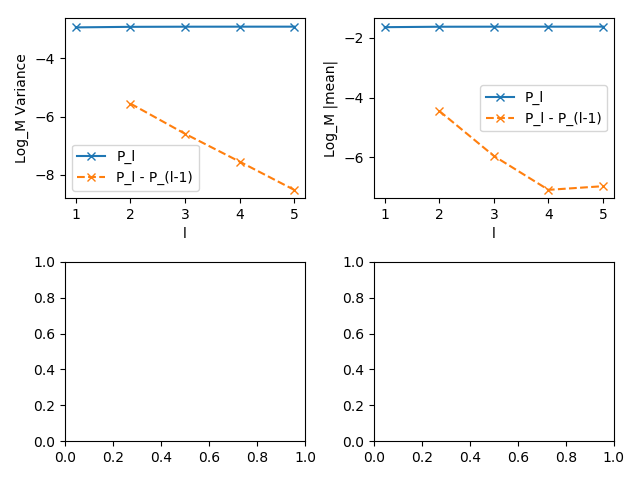
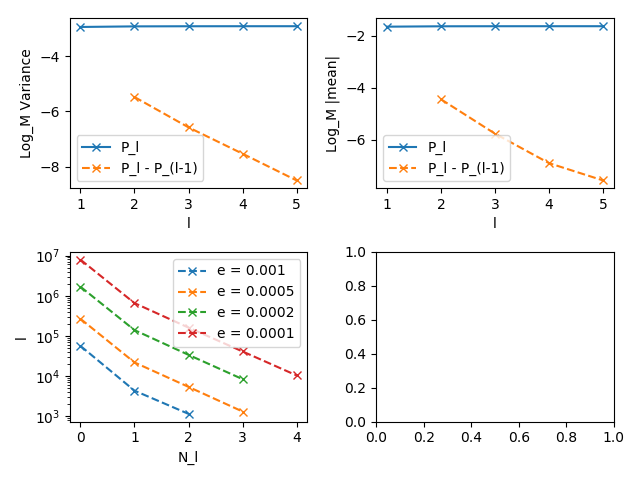
addition of graph for N-layers versus epsilon

diff --git a/graph.py b/graph.py
@@ -5,60 +5,90 @@ import numpy as np
 import matplotlib.pyplot as plt
 import os
 
-spot = 1
-strike = 1
-risk_free = 0.05
-expiry = 1
-vol = 0.2
-interval = 0.1
 
-s = stock.ConstantVolatilityStock(spot, vol)
-o = option.EuropeanStockOption(s, risk_free, expiry, True, strike)
-solver = option.SimpleLayeredMCOptionSolver(interval,base_steps=10000,max_L=5)
+def create_graph(asset):
 
+    def plot_vars_and_means(asset, ax1, ax2):
+        '''
+        Produces plots for upper left and upper right.
+        '''
 
-def generate_log_variance(solver):
-    trackers = solver.solve_option_price(o)
-    for (n, t) in trackers:
-        print(n, t.mean, t.variance, t.count)
+        solver = option.SimpleLayeredMCOptionSolver(
+            max_interval_length=.01,
+            base_steps=10000,
+            min_L=5
+            )
 
-    # E[P(l) - P(l-1)]
-    pl_means_deltas = np.array([t.mean for (n,t) in trackers])
+        (means, variances, counts) = solver.solve_option_price(asset, True)
+        for l, (m, v, c) in enumerate(zip(means, variances, counts)):
+            print(l, m, v, c)
 
-    # Var[P(l) - P(l-1)]
-    pl_vars_deltas = np.array([t.variance for (n,t) in trackers])
+        # means and variances actually contain V(p(l) - p(l-1))
+        layer_means = np.array(means).cumsum()
+        layer_vars = np.array(variances).cumsum()
 
-    # E[P(l)] = P_0 + sum(E[P(l) -P(l-1)]) for l = 1,2,...
-    pl_means = pl_means_deltas.cumsum()
+        # take log of base 4, for plotting
+        variances = [math.log(v,4) for v in variances]
+        layer_vars = [math.log(v,4) for v in layer_vars]
+        means = [math.log(abs(m),4) for m in means]
+        layer_means = [math.log(abs(m),4) for m in layer_means]
 
-    # Var[P(l)] = P_0 + sum(var[P(l) -P(l-1)]) for l = 1,2,...
-    pl_vars = pl_vars_deltas.cumsum()
+        ax1.plot([1,2,3,4,5], layer_vars, marker ='x', label="P_l")
+        ax1.plot([2,3,4,5], variances[1:], ls="--",marker='x', label="P_l - P_(l-1)")
+        ax1.set_xlabel("l")
+        ax1.set_ylabel("Log_M Variance")
+        ax1.legend()
 
-    # take log of base 4, for plotting
-    pl_vars_deltas = [math.log(v,4) for v in pl_vars_deltas]
-    pl_vars = [math.log(v,4) for v in pl_vars]
-    pl_means_deltas = [math.log(abs(m),4) for m in pl_means_deltas]
-    pl_means = [math.log(abs(m),4) for m in pl_means]
+        ax2.plot([1,2,3,4,5], layer_means, marker ='x', label="P_l")
+        ax2.plot([2,3,4,5], means[1:], ls="--",marker='x', label="P_l - P_(l-1)")
+        ax2.set_xlabel("l")
+        ax2.set_ylabel("Log_M |mean|")
+        ax2.legend()
+
+    def plot_Npaths_for_epsilon(asset, ax3):
+
+        epsilon_list = [.001, .0005, .0002, .0001]
+
+        for i, e in enumerate(epsilon_list):
+            print("NEW TRIAL")
+            solver = option.SimpleLayeredMCOptionSolver(
+                max_interval_length=e,
+                base_steps=1000,
+                min_L=3
+                )
+
+            (means, variances, counts) = solver.solve_option_price(asset, True)
+
+            for l, (m, v, c) in enumerate(zip(means, variances, counts)):
+                print(l, m, v, c)
+
+            layers = [i for i in range(len(counts))]
+            ax3.plot(layers, counts, ls="--",marker='x',label="e = %s" %e)
+        ax3.set_yscale('log')
+        ax3.set_xlabel("N_l")
+        ax3.set_ylabel("l")
+        ax3.legend(loc='upper right')
+
 
     fig, ((ax1, ax2), (ax3,ax4)) = plt.subplots(2,2)
-    ax1.plot([1,2,3,4,5], pl_vars, marker ='x', label="P_l")
-    ax1.plot([2,3,4,5], pl_vars_deltas[1:], ls="--",marker='x', label="P_l - P_(l-1)")
-    ax1.set_xlabel("l")
-    ax1.set_ylabel("Log_M Variance")
-    ax1.legend()
-
-    ax2.plot([1,2,3,4,5], pl_means, marker ='x', label="P_l")
-    ax2.plot([2,3,4,5], pl_means_deltas[1:], ls="--",marker='x', label="P_l - P_(l-1)")
-    ax2.set_xlabel("l")
-    ax2.set_ylabel("Log_M |mean|")
-    ax2.legend()
-
+    plot_vars_and_means(asset, ax1, ax2)
+    plot_Npaths_for_epsilon(asset, ax3)
     plt.tight_layout()
     plt.savefig(os.getcwd()+"/figs/graph_1.png")
     plt.show()
 
 def main():
-    generate_log_variance(solver)
+    spot = 1
+    strike = 1
+    risk_free = 0.05
+    expiry = 1
+    vol = 0.2
+
+
+
+    s = stock.ConstantVolatilityStock(spot, vol)
+    o = option.EuropeanStockOption(s, risk_free, expiry, True, strike)
+    create_graph(o)
 
 if __name__ == '__main__':
     main()

diff --git a/mlmc/option.py b/mlmc/option.py
@@ -206,7 +206,6 @@ class LayeredMCOptionSolver(OptionSolver):
         return
 
     def run_bottom_level(self, option, steps):
-        #print("RUNNING BOTTOM LEVEL")
         result = path.create_simple_path(option.assets,
                                          option.risk_free,
                                          option.expiry,
@@ -215,7 +214,6 @@ class LayeredMCOptionSolver(OptionSolver):
         return option.determine_payoff(*result),
 
     def run_upper_level(self, option, steps):
-        #print("RUNNING UPPER LEVEL")
         result = path.create_layer_path(option.assets,
                                         option.risk_free,
                                         option.expiry,
@@ -239,12 +237,20 @@ class LayeredMCOptionSolver(OptionSolver):
             for s, t in zip(fn(option, steps), trackers):
                 t.add_sample(s)
 
-    def solve_option_price(self, option):
+    def solve_option_price(self, option, return_stats=False):
         expiry = option.expiry
         risk_free = option.risk_free
         discount = math.exp(-risk_free * expiry)
+        trackers = self.run_levels(option, discount)
 
-        return self.run_levels(option, discount)
+        if return_stats:
+            means = [t.mean for t in trackers]
+            variances = [t.variance for t in trackers]
+            counts = [t.count for t in trackers]
+            return (means, variances, counts)
+
+        else:
+            return sum([t.mean for t in trackers])
 
 
 class SimpleLayeredMCOptionSolver(LayeredMCOptionSolver):
@@ -254,12 +260,12 @@ class SimpleLayeredMCOptionSolver(LayeredMCOptionSolver):
                  level_scaling_factor=4,
                  base_steps=1000,
                  rng_creator=None,
-                 max_L=3):
+                 min_L=3):
         self.max_interval_length = max_interval_length
         self.level_scaling_factor = max(level_scaling_factor, 2)
         self.base_steps = base_steps
         self.rng_creator = rng_creator
-        self.max_L = max_L
+        self.min_L = min_L
 
     def _determine_additional_steps(self, option, trackers):
         find_dt = lambda l:  option.expiry / (self.level_scaling_factor ** l)
@@ -279,25 +285,26 @@ class SimpleLayeredMCOptionSolver(LayeredMCOptionSolver):
     def _is_error_too_high(self, trackers):
         t1, t2 = trackers[-2:]
 
-        empirical = t2.mean - t1.mean/self.level_scaling_factor
-        estimated = ((self.level_scaling_factor**2 - 1) * self.max_interval_length / (2**0.5))
+        # empirical = abs(t2.mean - t1.mean/self.level_scaling_factor)
+        empirical = max(abs(t2.mean) / self.level_scaling_factor, abs(t1.mean))
+        estimated = ((self.level_scaling_factor**1 - 1) * self.max_interval_length / (2**0.5))
         return estimated < empirical
 
     def run_levels(self, option, discount):
         trackers = [
             (self.base_steps, StatTracker(discount))
-            for _ in xrange(self.max_L)
+            for _ in xrange(self.min_L)
         ]
 
         while sum(n for n, _ in trackers) > 0:
             for L, (n, t) in enumerate(trackers):
-                print("RUNNING LEVEL %s" %L)
                 self.run_level(option, L, n, t)
 
-            for (n, t) in trackers:
-                print(n, t.mean, t.stdev, t.count)
-            addl_steps = self._determine_additional_steps(option,
-                                                          [x[1] for x in trackers])
+
+            addl_steps = self._determine_additional_steps(
+                option,
+                [x[1] for x in trackers]
+                )
 
             nt = []
             for L, (addl, (n, t)) in enumerate(zip(addl_steps, trackers)):
@@ -307,10 +314,9 @@ class SimpleLayeredMCOptionSolver(LayeredMCOptionSolver):
             trackers = nt
 
             if self._is_error_too_high([x[1] for x in trackers]):
-                print("ADDING TRACKER")
                 trackers.append((self.base_steps, StatTracker(discount)))
 
-        return trackers
+        return [t[1] for t in trackers]
 
 
 class HeuristicLayeredMCOptionSolver(LayeredMCOptionSolver):
